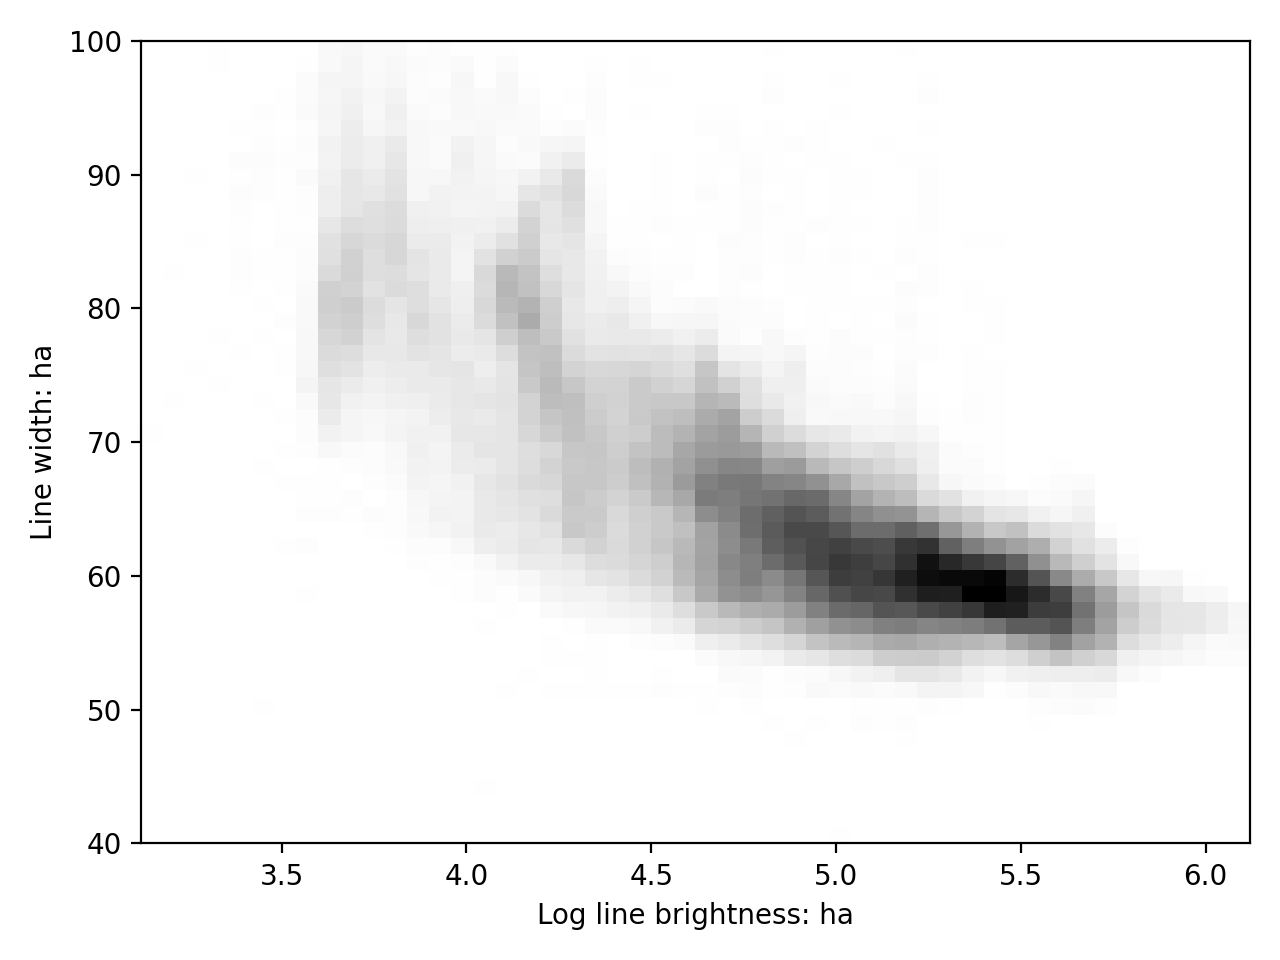
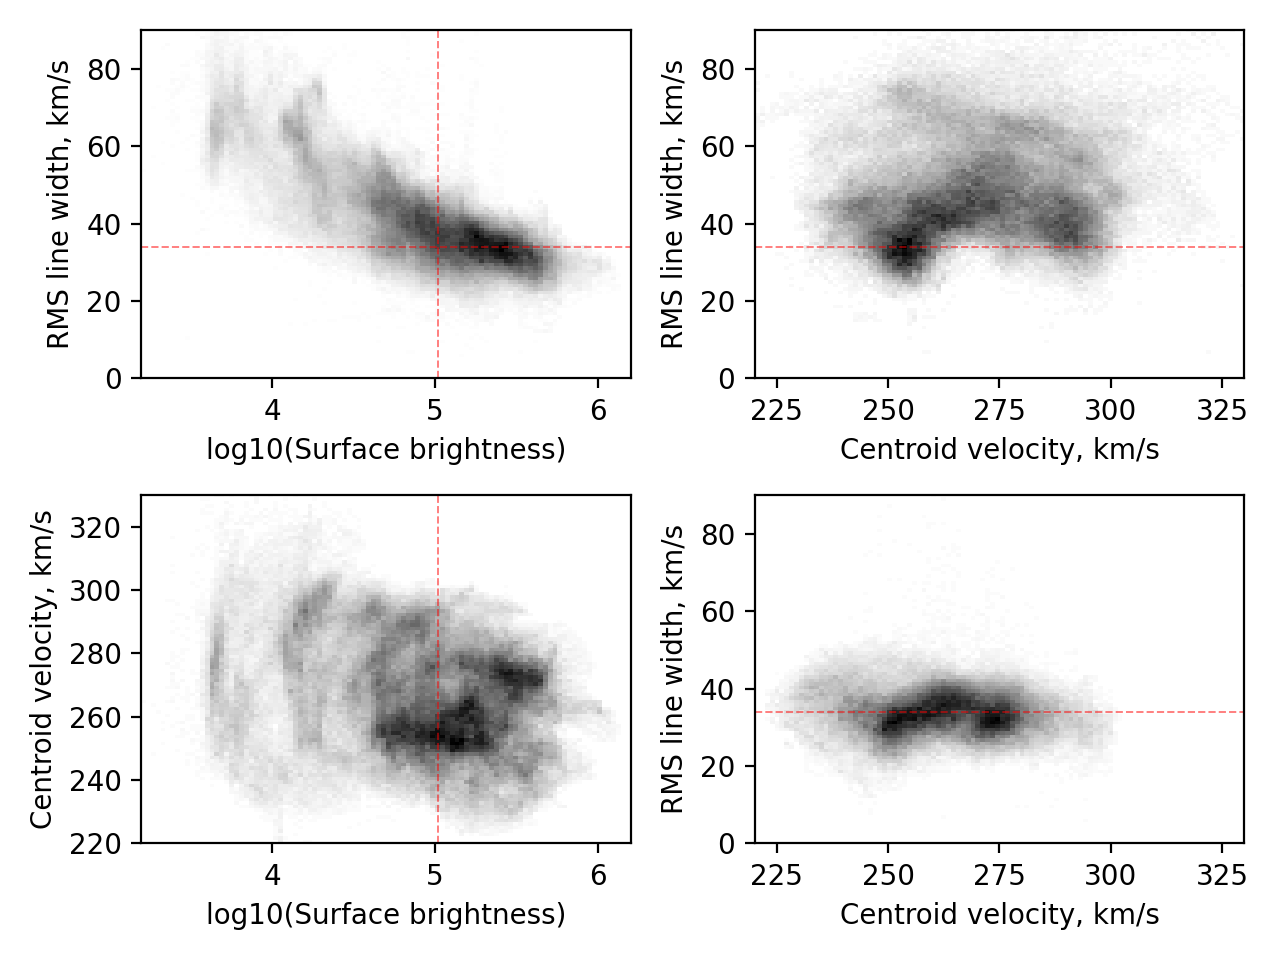
Improved I-sigma plots including I-v and v-sigma

diff --git a/tarantula-I-sigma-hist.py b/tarantula-I-sigma-hist.py
@@ -13,11 +13,23 @@ try:
 except:
     LINEID = "ha"
 
+try:
+    METHOD = sys.argv[2]
+except:
+    METHOD = "standard"
+
+USE_COLDEN = "colden" in METHOD
+USE_DEPTH = "depth" in METHOD
+
 fitsfilename = {
     "ha": "GAUS_Ha6562.8_060_Will.fits",
     "nii": "GAUS_NII6583.45_060_Will.fits",
 }
 wav0 = {"ha": 6562.8, "nii": 6583.45}
+atm_wt = {"ha": 1.0, "nii": 14.0}
+fs_var = {"ha": 10.233, "nii": 0.0}
+# Assume 1e4 K for thermal broadening
+thermal_var = 82.5 / atm_wt[LINEID]
 
 datadir = Path("data/Tarantula/MUSE_R136toWill")
 
@@ -28,8 +40,20 @@ sb = hdulist[1].data[:n, :n].astype(np.float64)
 vv = hdulist[2].data[:n, :n].astype(np.float64)
 ss = hdulist[3].data[:n, :n].astype(np.float64)
 
+# optionally use column density, instead of surface brightness
+if USE_COLDEN:
+    dd = fits.open(datadir / "Density.fits")["DATA"].data[:n, :n].astype(np.float64)
+    sb /= dd
+if USE_DEPTH:
+    dd = fits.open(datadir / "Density.fits")["DATA"].data[:n, :n].astype(np.float64)
+    sb /= dd**2
+
+
 # Convert sigma to km/s
 ss *= 3e5 / wav0[LINEID]
+
+# Subtract instrumental width and thermal width 
+ss = np.sqrt(ss**2 - 48.0**2 - fs_var[LINEID] - thermal_var)
 
 # Replace spurious values in the arrays
 m = ~np.isfinite(sb*vv*ss) | (sb < 0.0)
@@ -37,36 +61,145 @@ if LINEID == "nii":
     # Remove bad patch from the [N II] map
     m = m | (sb > 6e4) 
 
-m = ~m                          # invert mask
-fig, ax = plt.subplots()
 
-NBIN = 50
-BMAX = np.max(sb[m])
+m = ~m                          # invert mask
+
+# additional mask for bright pixels
+# BRIGHT_THRESHOLD = 0.1*np.max(sb[m])
+BRIGHT_THRESHOLD = np.median(sb[m])
+mb = sb > BRIGHT_THRESHOLD
+
+# Brightness-weighted average sigma
+AV_SIG = np.average(ss[m], weights=sb[m])
+
+NBIN = 100
+BMAX = np.max(1.2*sb[m])
 BMIN = BMAX / 1000.0
-SMIN, SMAX = 40.0, 100.0
+if USE_COLDEN:
+    BMAX = 5*BRIGHT_THRESHOLD
+    BMIN = BMAX / 100.0
+if USE_DEPTH:
+    BMAX = 10*BRIGHT_THRESHOLD
+    BMIN = BMAX / 500.0
+SMIN, SMAX = 0.0, 90.0
+VMIN, VMAX = 220.0, 330.0
 GAMMA = 1.5
+
+vlabel = "Centroid velocity, km/s"
+slabel = "RMS line width, km/s"
+blabel = "log10(Surface brightness)"
+if USE_COLDEN:
+    blabel = "log10(Column density)"
+if USE_DEPTH:
+    blabel = "log10(LOS depth)"
+
+fig, axes = plt.subplots(2, 2)
+
+linestyle = dict(lw=0.7, ls="--", color="r", alpha=0.5)
+
+# I - sigma
 xmin, xmax = np.log10(BMIN), np.log10(BMAX)
 ymin, ymax = SMIN, SMAX
-H, xedges, yedges = np.histogram2d(np.log10(sb[m]), ss[m], 
-                                   bins=[NBIN, NBIN],
-                                   range=[[xmin, xmax], [ymin, ymax]],
-                                   )
-
-ax.imshow((H.T)**(1.0/GAMMA), 
-          extent=[xmin, xmax, ymin, ymax], 
-          interpolation='none', aspect='auto', 
-          origin='lower', cmap=plt.cm.gray_r)
-
-
-ax.set(
-    xlabel='Log line brightness: ' + LINEID,
-    ylabel= 'Line width: ' + LINEID,
+H, xedges, yedges = np.histogram2d(
+    np.log10(sb[m]), ss[m], 
+    bins=[NBIN, NBIN],
+    range=[[xmin, xmax], [ymin, ymax]],
+)
+axes[0, 0].imshow(
+    (H.T)**(1.0/GAMMA), 
+    extent=[xmin, xmax, ymin, ymax], 
+    interpolation='none', aspect='auto', 
+    origin='lower', cmap=plt.cm.gray_r,
+)
+# Show brightness thereshold
+axes[0, 0].axvline(np.log10(BRIGHT_THRESHOLD), **linestyle)
+# Show average sigma
+axes[0, 0].axhline(AV_SIG, **linestyle)
+axes[0, 0].set(
+    xlabel=blabel,
+    ylabel=slabel,
     xlim=[xmin, xmax],
     ylim=[ymin, ymax],
 )
+
+# I - V
+xmin, xmax = np.log10(BMIN), np.log10(BMAX)
+ymin, ymax = VMIN, VMAX
+H, xedges, yedges = np.histogram2d(
+    np.log10(sb[m]), vv[m], 
+    bins=[NBIN, NBIN],
+    range=[[xmin, xmax], [ymin, ymax]],
+)
+axes[1, 0].imshow(
+    (H.T)**(1.0/GAMMA), 
+    extent=[xmin, xmax, ymin, ymax], 
+    interpolation='none', aspect='auto', 
+    origin='lower', cmap=plt.cm.gray_r,
+)
+# Show brightness thereshold
+axes[1, 0].axvline(np.log10(BRIGHT_THRESHOLD), **linestyle)
+axes[1, 0].set(
+    xlabel=blabel,
+    ylabel=vlabel,
+    xlim=[xmin, xmax],
+    ylim=[ymin, ymax],
+)
+
+# V - sigma
+xmin, xmax = VMIN, VMAX
+ymin, ymax = SMIN, SMAX
+H, xedges, yedges = np.histogram2d(
+    vv[m & (~mb)], ss[m & (~mb)], 
+    bins=[NBIN, NBIN],
+    range=[[xmin, xmax], [ymin, ymax]],
+)
+# Show average sigma
+axes[0, 1].axhline(AV_SIG, **linestyle)
+axes[0, 1].imshow(
+    (H.T)**(1.0/GAMMA), 
+    extent=[xmin, xmax, ymin, ymax], 
+    interpolation='none', aspect='auto', 
+    origin='lower', cmap=plt.cm.gray_r,
+)
+axes[0, 1].set(
+    xlabel=vlabel,
+    ylabel=slabel,
+    xlim=[xmin, xmax],
+    ylim=[ymin, ymax],
+)
+
+
+# V - sigma but bright only
+xmin, xmax = VMIN, VMAX
+ymin, ymax = SMIN, SMAX
+H, xedges, yedges = np.histogram2d(
+    vv[m & mb], ss[m & mb], 
+    bins=[NBIN, NBIN],
+    range=[[xmin, xmax], [ymin, ymax]],
+)
+axes[1, 1].imshow(
+    (H.T)**(1.0/GAMMA), 
+    extent=[xmin, xmax, ymin, ymax], 
+    interpolation='none', aspect='auto', 
+    origin='lower', cmap=plt.cm.gray_r,
+)
+# Show average sigma
+axes[1, 1].axhline(AV_SIG, **linestyle)
+axes[1, 1].set(
+    xlabel=vlabel,
+    ylabel=slabel,
+    xlim=[xmin, xmax],
+    ylim=[ymin, ymax],
+)
+
 fig.tight_layout()
 
 plotfile = f"tarantula-I-sigma-hist-{LINEID}.png"
+if USE_COLDEN:
+    plotfile = plotfile.replace(".", "-colden.")
+if USE_DEPTH:
+    plotfile = plotfile.replace(".", "-depth.")
+
 fig.savefig(plotfile, dpi=200)
 
 print(plotfile, end="")
